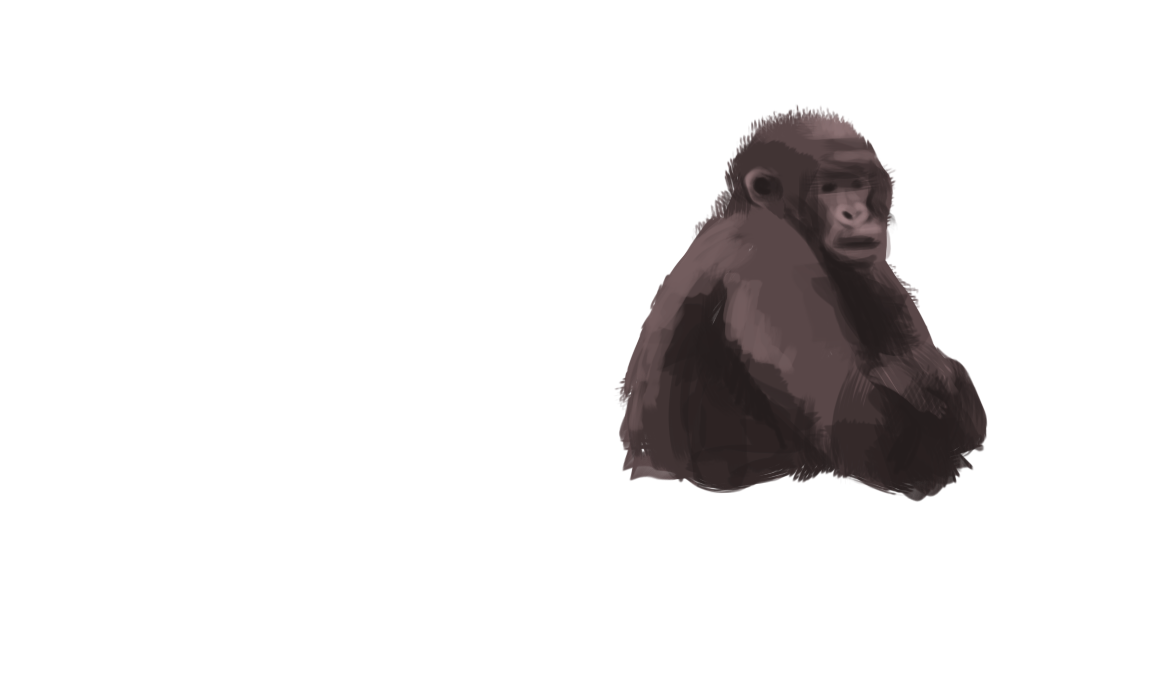
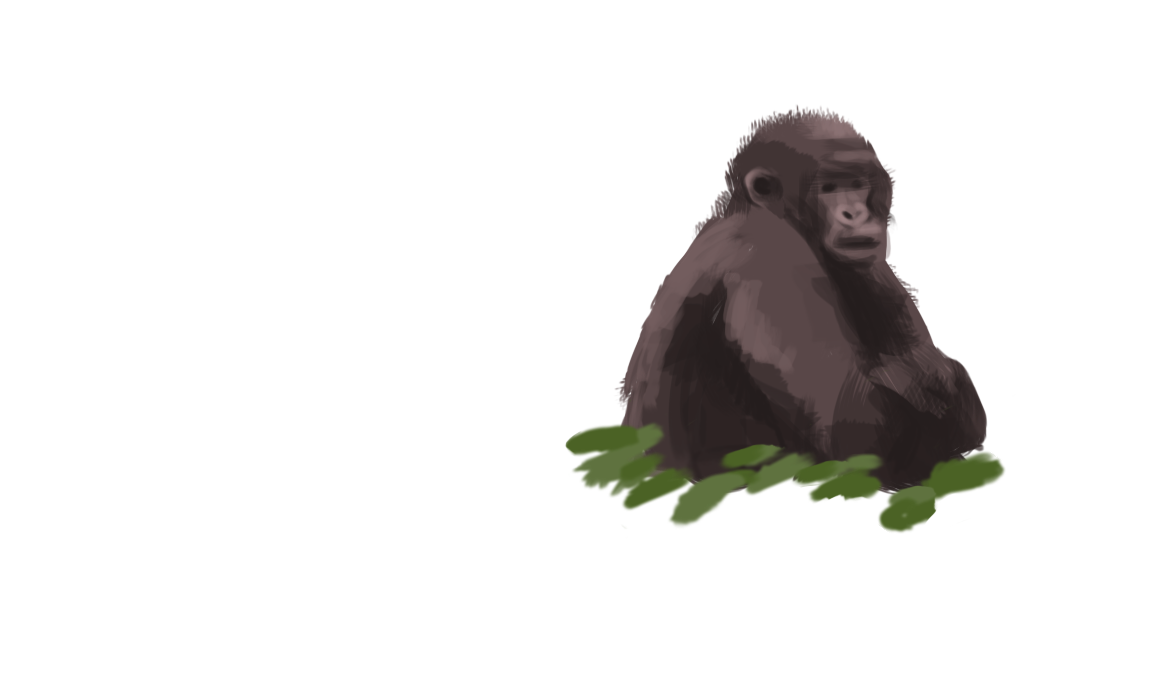
more img updates and animations

Changed region(s): [[0.4688, 0.6, 0.875, 0.78]]

diff --git a/index.html b/index.html
@@ -17,13 +17,13 @@
 		<h4>Sir David Attenborough is known as a nature enthusiast, broadcaster and educator</h4>
 	</section>
 	<section id="portrait" class="illubox col-12">
-		<div class="centered-bg absolute" data-top="transform: translateY(-50px);" data--100-top="transform: translateY(120px);">
+		<div class="centered-bg absolute" data-100-top="transform: translateY(-80px);" data-100-bottom="transform: translateY(0px);">
 			<img src="imgs/portrait-bg1.png" class="col-12 nopadding">
 		</div>
-		<div class="centered-bg absolute" data-top="transform: translateY(0px);" data--100-top="transform: translateY(150px);">
+		<div class="centered-bg absolute" data-center="transform: translateY(-60px);" data--100-bottom="transform: translateY(20px);">
 			<img src="imgs/portrait-bg2.png" class="col-12 nopadding">
 		</div>
-		<div class="portrait-david absolute">
+		<div class="portrait-david absolute" data-100-top="transform: translateY(80px);" data--30-bottom="transform: translateY(-50px);">
 			<img src="imgs/portrait-david.png" class="col-12">
 		</div>
 	</section>
@@ -31,10 +31,10 @@
 		<h4>His first major appearance was in nature documentary Zoo Quest, an animal collector trip for the London Zoo</h4>
 	</section>
 	<section id="zooquest" class="illubox col-12 nopadding">
-		<div class="absolute" data-top="transform: translateY(-100px);" data-bottom="transform: translateY(0px);">
+		<div class="absolute" data-100-top="transform: translateY(-100px);" data-bottom="transform: translateY(0px);">
 			<img src="imgs/zoo-quest-bg.png" class="col-12 nopadding">
 		</div>
-		<div class="zoo-quest-david absolute" data-100-top="transform: translateY(150px);" data--50-bottom="transform: translateY(-50px);" data-anchor-target="#zooquest">
+		<div class="zoo-quest-david absolute" data-100-top="transform: translateY(150px);" data--30-bottom="transform: translateY(-50px);" data-anchor-target="#zooquest">
 			<img src="imgs/zoo-quest-david.png" class="col-12">
 		</div>
 	</section>
@@ -42,16 +42,16 @@
 		<h4>In an incredible career spanning 7 decades, he has shown us how wonderful our planet and its inhabitants are</h4>
 	</section>
 	<section id="gorillas" class="illubox col-12">
-		<div class="centered-bg absolute" data-top="transform: translateY(-50px);" data--100-top="transform: translateY(120px);">
+		<div class="centered-bg absolute" data-100-top="transform: translateY(-100px);" data--100-bottom="transform: translateY(80px);">
 			<img src="imgs/gorillas-leaves1.png" class="col-12 nopadding">
 		</div>
-		<div class="centered-bg absolute" data-top="transform: translateY(-50px);" data--100-top="transform: translateY(120px);">
+		<div class="centered-bg absolute" data-100-top="transform: translateY(-80px);" data--100-bottom="transform: translateY(20px);">
 			<img src="imgs/gorillas-leaves2.png" class="col-12 nopadding">
 		</div>
-		<div class="absolute" data-top="transform: translateY(-50px);" data--100-top="transform: translateY(120px);">
+		<div class="absolute" data-100-top="transform: translateY(-80px);" data--100-bottom="transform: translateY(20px);">
 			<img src="imgs/gorillas-gorilla.png" class="col-12">
 		</div>
-		<div class="absolute" data-top="transform: translateY(-50px);" data--100-top="transform: translateY(120px);">
+		<div class="absolute" data-100-top="transform: translateY(200px);" data--50-bottom="transform: translateY(50px);">
 			<img src="imgs/gorillas-david.png" class="col-12">
 		</div>
 	</section>
